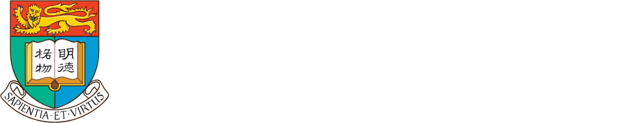
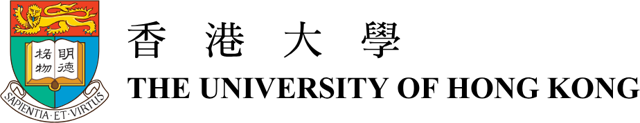
Add files via upload

diff --git a/confluence.css b/confluence.css
@@ -1,2 +1,5 @@
-:root{--ink:#182e32;--paper:#f9f8f3;--line:#c7cfca;--muted:#4b605f;--coral:#a23f3a;--orange:#aa4e08;--green:#086a50}*{box-sizing:border-box}body{margin:0;color:var(--ink);background:var(--paper);font:16px/1.55 "Helvetica Neue",Arial,sans-serif}a{color:inherit;text-underline-offset:.23em}a:hover{color:#006b61}a:focus-visible{outline:3px solid #007d73;outline-offset:4px}.skip{position:absolute;left:-100vw}.skip:focus{left:1rem;top:1rem;background:white;z-index:5}.mast,.foot{border-bottom:1px solid var(--line)}.mast>div,.foot>div,main{width:min(1160px,90%);margin:auto}.mast>div,.foot>div,nav{display:flex;align-items:center;justify-content:space-between;gap:24px}.mast>div{min-height:76px}.brand{font-size:27px;font-weight:800;letter-spacing:-1.7px}.brand span{color:#bd5047}nav a,.brand{text-decoration:none}nav a{font-size:15px;font-weight:600}main{min-height:70vh;padding:clamp(36px,6vw,86px) 0}h1,h2,h3,p{margin:0 0 .65em}h1,h2,h3{line-height:1.08}h1,h2,.display,.person-name{font-family:Georgia,"Times New Roman",serif;font-weight:normal;letter-spacing:-.045em}h1{font-size:clamp(50px,7.8vw,104px);max-width:16ch}h2{font-size:clamp(30px,4vw,52px)}h3{font-size:23px}p{max-width:68ch}img{max-width:100%;height:auto}section+section,.block{margin-top:clamp(42px,6vw,84px)}.eyebrow,.role{font-size:12px;font-weight:bold;letter-spacing:.095em;text-transform:uppercase}.cn,[lang=zh-Hans]{color:var(--muted);letter-spacing:.04em}.intro{font-size:clamp(18px,2vw,24px);line-height:1.45;max-width:58ch}.hero{display:grid;grid-template-columns:1.6fr 1fr;align-items:end;gap:6%;border-bottom:1px solid var(--line);padding-bottom:40px}.hero h1{margin:.18em 0}.hero .cn{font-size:22px}.hero aside{border-left:3px solid #227564;padding-left:22px}.hero aside p{margin:.5rem 0}.rows{border-top:1px solid var(--line)}.row{padding:22px 0;border-bottom:1px solid var(--line);text-decoration:none;display:grid;grid-template-columns:1.1fr 1.3fr auto;align-items:center;gap:18px}.row strong{font:normal clamp(22px,3vw,38px)/1.2 Georgia,serif;letter-spacing:-.035em}.row small{font:500 14px/1.5 Arial,sans-serif;color:var(--muted);display:block;margin-top:5px}.row i{font:24px Georgia}.tone{border-left:5px solid var(--accent);padding-left:16px}.horizons{--accent:#d9615e}.dialogues{--accent:#e68531}.currents{--accent:#269977}.story{border-top:4px solid var(--accent,var(--ink));padding-top:24px}.story h1{max-width:19ch}.story-grid,.execs{display:grid;grid-template-columns:1fr 1fr;gap:clamp(24px,5vw,70px)}.story-grid section{border-top:1px solid var(--line);padding-top:22px;margin:0}.story-grid h2{font-size:32px}.execs article{display:grid;grid-template-columns:minmax(100px,42%) 1fr;align-items:center;gap:20px}.portrait{width:100%;aspect-ratio:3/4;object-fit:cover;object-position:center 29%;display:block}.person-name{font-size:clamp(24px,3vw,39px)}.person-name a{text-decoration:none}.officer{display:flex;align-items:center;gap:24px;border-top:1px solid var(--line);padding-top:22px}.officer img{width:85px;height:102px;object-fit:cover}.officer h3{font:normal 26px Georgia}.institutions,.directory{list-style:none;padding:0;display:grid;gap:1px;background:var(--line);border:1px solid var(--line)}.institutions{grid-template-columns:repeat(4,1fr)}.institutions li{background:white;padding:16px;text-align:center;font-size:13px}.logo{height:68px;display:flex;align-items:center;justify-content:center;margin-bottom:7px}.logo img{width:100%;height:55px;object-fit:contain}.logo.hku{background:#193839;padding:6px}.directory{grid-template-columns:repeat(2,1fr);gap:0 25px;background:none;border:0}.directory li{border-top:1px solid var(--line);display:flex;justify-content:space-between;gap:12px;padding:10px 0}.directory span{color:var(--muted)}.foot{background:var(--ink);color:white;padding:28px 0}.foot a:hover{color:#cfede0}#main article img{max-width:100%}main table{display:block;overflow:auto}main iframe{max-width:100%}.post-content,.post-content p{max-width:78ch}.post-content img{height:auto}.cta{display:inline-block;font-weight:bold;margin-top:10px}
+:root{--ink:#182e32;--paper:#f9f8f3;--line:#c7cfca;--muted:#4b605f;--coral:#a23f3a;--orange:#aa4e08;--green:#086a50}*{box-sizing:border-box}body{margin:0;color:var(--ink);background:var(--paper);font:16px/1.55 "Helvetica Neue",Arial,sans-serif}a{color:inherit;text-underline-offset:.23em}a:hover{color:#006b61}a:focus-visible{outline:3px solid #007d73;outline-offset:4px}.skip{position:absolute;left:-100vw}.skip:focus{left:1rem;top:1rem;background:white;z-index:5}.mast,.foot{border-bottom:1px solid var(--line)}.mast>div,.foot>div,main{width:min(1160px,90%);margin:auto}.mast>div,.foot>div,nav{display:flex;align-items:center;justify-content:space-between;gap:24px}.mast>div{min-height:76px}.brand{font-size:27px;font-weight:800;letter-spacing:-1.7px}.brand span{color:#bd5047}nav a,.brand{text-decoration:none}nav a{font-size:15px;font-weight:600}main{min-height:70vh;padding:clamp(36px,6vw,86px) 0}h1,h2,h3,p{margin:0 0 .65em}h1,h2,h3{line-height:1.08}h1,h2,.display,.person-name{font-family:Georgia,"Times New Roman",serif;font-weight:normal;letter-spacing:-.045em}h1{font-size:clamp(50px,7.8vw,104px);max-width:16ch}h2{font-size:clamp(30px,4vw,52px)}h3{font-size:23px}p{max-width:68ch}img{max-width:100%;height:auto}section+section,.block{margin-top:clamp(42px,6vw,84px)}.eyebrow,.role{font-size:12px;font-weight:bold;letter-spacing:.095em;text-transform:uppercase}.cn,[lang=zh-Hans]{color:var(--muted);letter-spacing:.04em}.intro{font-size:clamp(18px,2vw,24px);line-height:1.45;max-width:58ch}.hero{display:grid;grid-template-columns:1.6fr 1fr;align-items:end;gap:6%;border-bottom:1px solid var(--line);padding-bottom:40px}.hero h1{margin:.18em 0}.hero .cn{font-size:22px}.hero aside{border-left:3px solid #227564;padding-left:22px}.hero aside p{margin:.5rem 0}.rows{border-top:1px solid var(--line)}.row{padding:22px 0;border-bottom:1px solid var(--line);text-decoration:none;display:grid;grid-template-columns:1.1fr 1.3fr auto;align-items:center;gap:18px}.row strong{font:normal clamp(22px,3vw,38px)/1.2 Georgia,serif;letter-spacing:-.035em}.row small{font:500 14px/1.5 Arial,sans-serif;color:var(--muted);display:block;margin-top:5px}.row i{font:24px Georgia}.tone{border-left:5px solid var(--accent);padding-left:16px}.horizons{--accent:#d9615e}.dialogues{--accent:#e68531}.currents{--accent:#269977}.story{border-top:4px solid var(--accent,var(--ink));padding-top:24px}.story h1{max-width:19ch}.story-grid,.execs{display:grid;grid-template-columns:1fr 1fr;gap:clamp(24px,5vw,70px)}.story-grid section{border-top:1px solid var(--line);padding-top:22px;margin:0}.story-grid h2{font-size:32px}.execs article{display:grid;grid-template-columns:minmax(100px,42%) 1fr;align-items:center;gap:20px}.portrait{width:100%;aspect-ratio:3/4;object-fit:cover;object-position:center 29%;display:block}.person-name{font-size:clamp(24px,3vw,39px)}.person-name a{text-decoration:none}.officer{display:flex;align-items:center;gap:24px;border-top:1px solid var(--line);padding-top:22px}.officer img{width:85px;height:102px;object-fit:cover}.officer h3{font:normal 26px Georgia}.institutions,.directory{list-style:none;padding:0;display:grid;gap:1px;background:var(--line);border:1px solid var(--line)}.institutions{grid-template-columns:repeat(4,1fr)}.institutions li{background:white;padding:16px;text-align:center;font-size:13px}.logo{height:68px;display:flex;align-items:center;justify-content:center;margin-bottom:7px}.logo img{width:100%;height:55px;object-fit:contain}.directory{grid-template-columns:repeat(2,1fr);gap:0 25px;background:none;border:0}.directory li{border-top:1px solid var(--line);display:flex;justify-content:space-between;gap:12px;padding:10px 0}.directory span{color:var(--muted)}.foot{background:var(--ink);color:white;padding:28px 0}.foot a:hover{color:#cfede0}#main article img{max-width:100%}main table{display:block;overflow:auto}main iframe{max-width:100%}.post-content,.post-content p{max-width:78ch}.post-content img{height:auto}.cta{display:inline-block;font-weight:bold;margin-top:10px}
 @media(max-width:760px){.hero,.story-grid,.execs,.directory{grid-template-columns:1fr}.hero aside{margin-top:15px}.row{grid-template-columns:1fr auto}.row>span:nth-child(2){grid-column:1;grid-row:2}.row i{grid-column:2;grid-row:1}.institutions{grid-template-columns:repeat(2,1fr)}.mast>div,.foot>div{align-items:flex-start;flex-wrap:wrap;gap:8px;padding-block:13px}.mast nav{flex-wrap:wrap;gap:13px}.execs article{max-width:460px}.hero{gap:0}.story-grid{gap:26px}}@media(max-width:440px){.mast>div{display:grid}nav a{font-size:14px}.directory li{display:grid;gap:0}.institutions li{padding:10px}}
+
+.brand img{display:block;height:auto;max-width:100%}
+.logo img[src="/cuhksz.png"],.logo.hku img{width:min(100%,185px);height:auto;max-height:51px}
